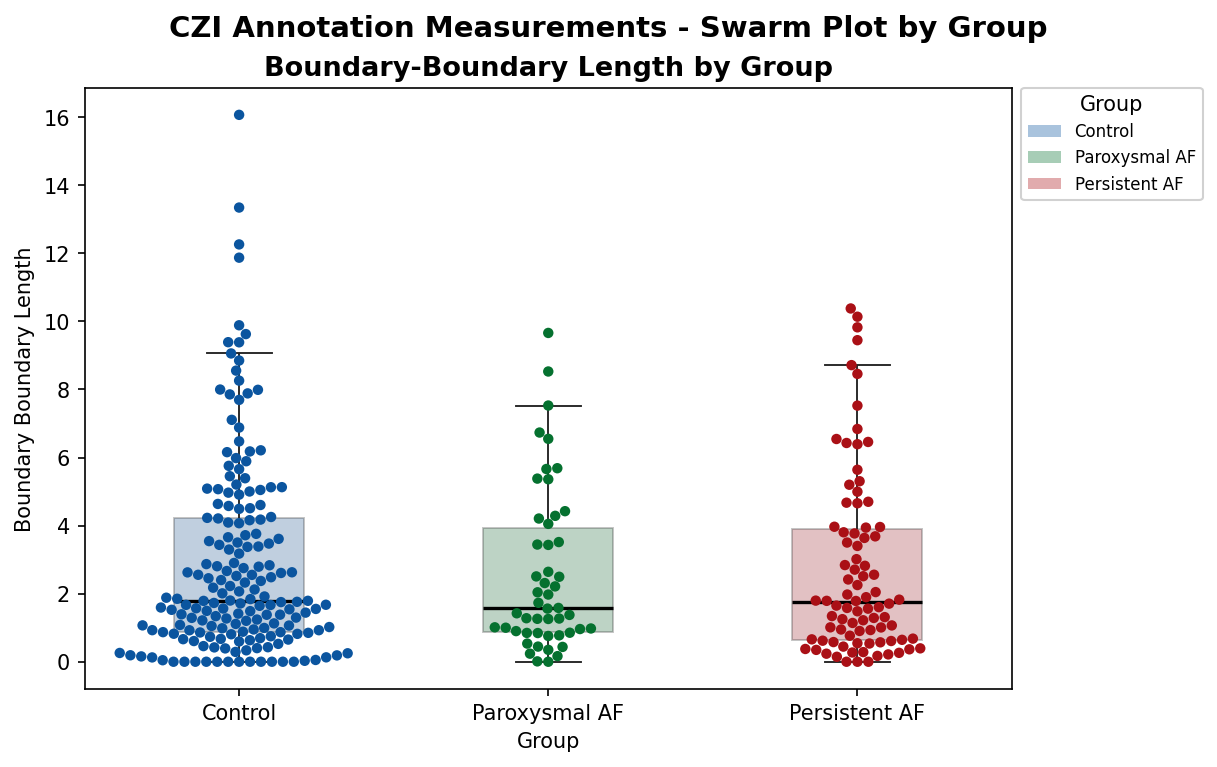
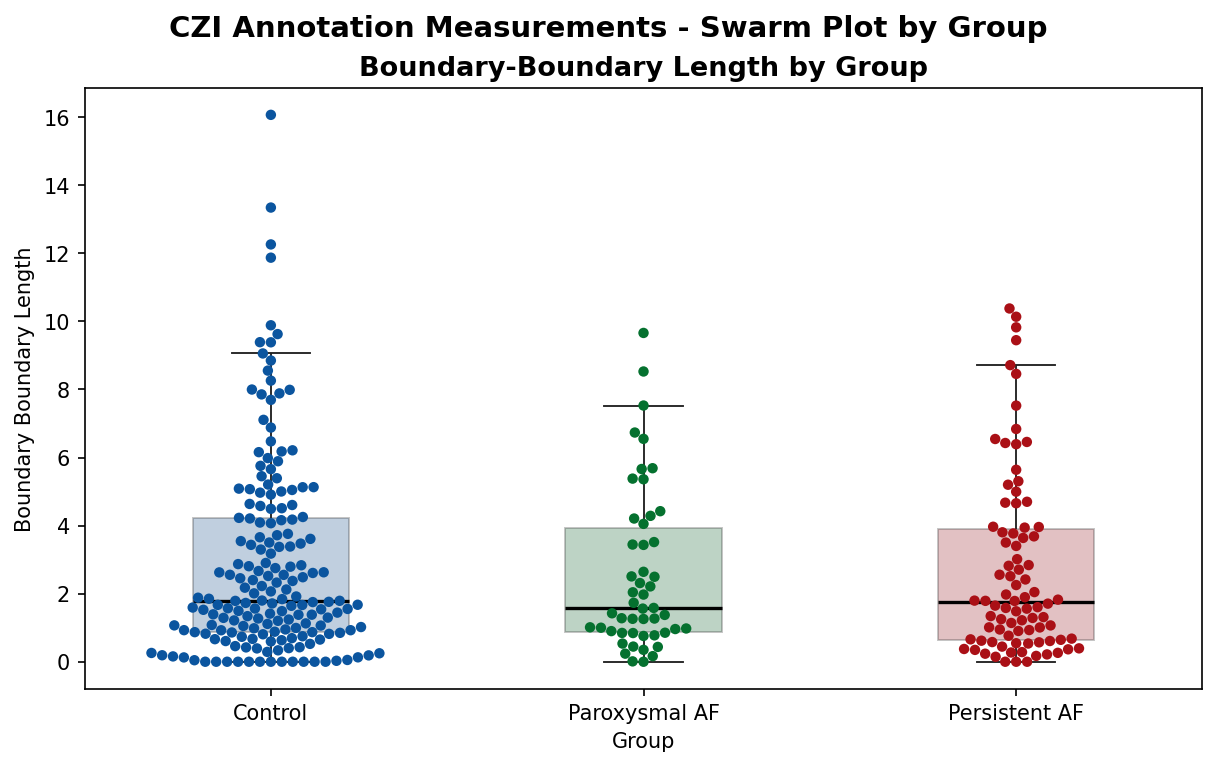
Tidy away surplus legend

diff --git a/swarm_plots.py b/swarm_plots.py
@@ -397,15 +397,6 @@ def plot_by_group(df):
         )
         for af_type in CLASS_ORDER
     ]
-    ax.legend(
-        handles=handles,
-        title="Group",
-        loc="upper left",
-        bbox_to_anchor=(1.01, 1.0),
-        borderaxespad=0,
-        framealpha=0.9,
-        fontsize=8,
-    )
 
     fig.suptitle(
         "CZI Annotation Measurements - Swarm Plot by Group",
